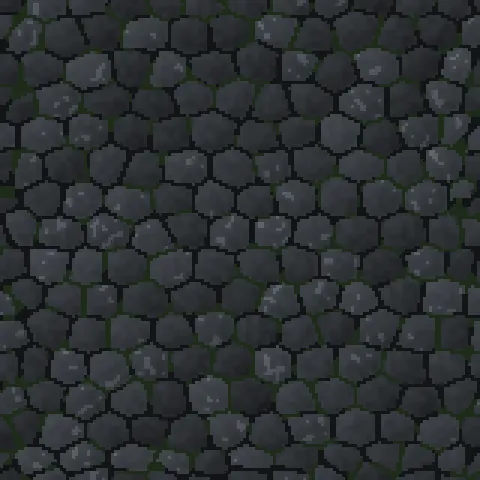
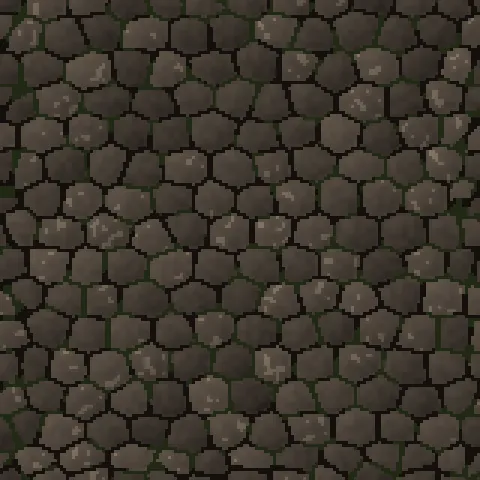
Cronograma: caixas brancas de novo sobre a calçada iluminada
As caixas voltam às cores de sempre (brancas no claro, escuras no escuro); a calçada de pedra fica
mais quente, com poças de luz das lanternas e da torre, feixe de sol e sombra das caixas nas pedras.

diff --git a/src/estilos/paginas/CronogramaTorre.css b/src/estilos/paginas/CronogramaTorre.css
@@ -175,100 +175,47 @@
 .cr-form.cr--torre .pe-form__mais, .cr-form.cr--torre .pe-data-atalho { border-radius: var(--ct-raio-ctl); }
 .cr.cr--torre .cp-conta__linha { border-radius: 12px; }
 
-/* ══ O mundo continua embaixo (Tales, 31/10/2026: "o design de baixo não tem nada a ver com o de cima") ══
-   A página inteira fica na praça da torre: o chão de pedra pintado (scripts/gerar_cena_cronograma.py chao),
-   a luz quente que desce da torre e das lanternas, o luar frio do outro lado e um feixe lento atravessando.
-   Os blocos viram vidro escuro com filete dourado, como o vidro do topo. As cores do site são redefinidas aqui
-   dentro (o mundo é noturno nos dois temas, como a cena), então todo componente herda o mesmo vidro. */
+/* ══ A calçada da praça embaixo do topo (Tales, 31/10/2026) ══
+   A página inteira fica sobre o chão de pedra pintado (scripts/gerar_cena_cronograma.py chao), iluminado como na
+   cena: poças de luz quente da torre e das lanternas, um feixe de sol lento atravessando e as caixas projetando
+   sombra macia nas pedras. As caixas de texto continuam brancas (tema claro) e com as cores de sempre, como na
+   página inicial: a luz e a cor forte ficam no chão e na arte. */
 .cr--torre {
-  --porcelana: rgba(9, 14, 16, 0.55); --fundo: var(--porcelana);
-  --superficie: rgba(15, 21, 26, 0.84); --superficie-2: rgba(255, 244, 220, 0.05);
-  --traco: rgba(232, 206, 150, 0.16); --traco-forte: rgba(232, 206, 150, 0.32);
-  --grafite: #f4ecda; --texto: #f4ecda; --ardosia: #b8b09c; --texto-2: #b8b09c;
-  --verdete: #5cc4b4; --verdete-tinta: #7fd6c8; --verdete-veu: rgba(92, 196, 180, 0.14); --sobre-destaque: #0b1315;
-  --acerto: #4fbe85; --acerto-veu: rgba(79, 190, 133, 0.14); --acerto-texto: #6fd3a0; --sobre-acerto: #0b1315;
-  --erro: #e8776c; --erro-veu: rgba(232, 119, 108, 0.14); --erro-texto: #f0958c; --sobre-erro: #0b1315;
-  --aviso: #e0b15c; --aviso-veu: rgba(224, 177, 92, 0.14); --aviso-texto: #ecc47a;
-  --ouro: #f0c46a; --ouro-veu: rgba(240, 196, 106, 0.12); --ouro-texto: #f0c46a; --foco: #ffe3a3;
-  --px-borda: rgba(232, 206, 150, 0.24); --px-sombra: rgba(0, 0, 0, 0.5);
-  --sombra: none; --sombra-media: 0 22px 44px -24px rgba(0, 0, 0, 0.9);
-  --cr-cartao-borda: 1px solid rgba(232, 206, 150, 0.2);
-  --cr-cartao-sombra: inset 0 1px 0 rgba(255, 240, 210, 0.07), 0 20px 40px -24px rgba(0, 0, 0, 0.95);
-  --ct-vidro: linear-gradient(180deg, rgba(255, 236, 200, 0.055), transparent 38%), rgba(13, 18, 24, 0.82);
-  color-scheme: dark; color: var(--texto);
-  position: relative; isolation: isolate; padding: clamp(0.6rem, 1.8vw, 1.25rem); border-radius: 26px;
+  position: relative; isolation: isolate; padding: clamp(0.6rem, 1.8vw, 1.25rem); border-radius: 26px; overflow: hidden;
   background:
-    radial-gradient(55rem 26rem at 78% 0%, rgba(255, 176, 92, 0.2), transparent 70%),
-    radial-gradient(34rem 30rem at 0% 38%, rgba(255, 168, 80, 0.1), transparent 72%),
-    radial-gradient(40rem 34rem at 100% 70%, rgba(120, 146, 255, 0.09), transparent 72%),
-    radial-gradient(30rem 26rem at 12% 96%, rgba(255, 168, 80, 0.08), transparent 72%),
-    linear-gradient(180deg, rgba(8, 12, 14, 0.15), rgba(8, 12, 14, 0.6)),
-    var(--ct-chao, none) 0 0 / 360px repeat, #0b1315;
-  image-rendering: pixelated;
-  box-shadow: inset 0 0 0 1px rgba(232, 206, 150, 0.14), inset 0 0 90px rgba(0, 0, 0, 0.55), 0 24px 50px -30px rgba(0, 0, 0, 0.7);
-  overflow: hidden;
+    radial-gradient(60rem 30rem at 80% 0%, rgba(255, 178, 88, 0.42), transparent 70%),
+    radial-gradient(36rem 28rem at 0% 34%, rgba(255, 160, 70, 0.32), transparent 70%),
+    radial-gradient(38rem 30rem at 100% 62%, rgba(255, 170, 80, 0.3), transparent 70%),
+    radial-gradient(34rem 28rem at 8% 92%, rgba(255, 150, 66, 0.28), transparent 72%),
+    radial-gradient(70rem 40rem at 50% 50%, rgba(255, 196, 120, 0.12), transparent 75%),
+    linear-gradient(180deg, rgba(40, 22, 10, 0.05), rgba(10, 8, 6, 0.42)),
+    var(--ct-chao, none) 0 0 / 360px repeat, #1a1410;
+  background-blend-mode: screen, screen, screen, screen, screen, normal, normal, normal;
+  box-shadow: inset 0 0 0 1px rgba(255, 210, 150, 0.16), inset 0 0 110px rgba(14, 8, 4, 0.6), 0 24px 50px -30px rgba(0, 0, 0, 0.6);
 }
-.cr--torre > * { image-rendering: auto; }
-/* O feixe de luz: uma faixa morna em diagonal que atravessa a praça devagar (como o sol entre as casas). */
-.cr--torre::before { content: ""; position: absolute; z-index: -1; inset: -20% -40%; pointer-events: none;
-  background: linear-gradient(105deg, transparent 42%, rgba(255, 226, 170, 0.07) 48%, rgba(255, 226, 170, 0.11) 50%, rgba(255, 226, 170, 0.07) 52%, transparent 58%);
-  animation: ct-feixe 28s ease-in-out infinite alternate; }
-@keyframes ct-feixe { from { transform: translateX(-18%); } to { transform: translateX(18%); } }
-/* Brasa de lanterna nas bordas da praça, tremulando de leve. */
-.cr--torre::after { content: ""; position: absolute; z-index: -1; inset: 0; pointer-events: none;
-  background: radial-gradient(14rem 14rem at 2% 62%, rgba(255, 170, 80, 0.16), transparent 70%), radial-gradient(14rem 14rem at 98% 30%, rgba(255, 170, 80, 0.14), transparent 70%);
+/* O feixe de sol: uma faixa morna em diagonal, com a beira mais acesa, que atravessa a calçada devagar. */
+.cr--torre::before { content: ""; position: absolute; z-index: -1; inset: -20% -40%; pointer-events: none; mix-blend-mode: screen;
+  background: linear-gradient(105deg, transparent 38%, rgba(255, 214, 150, 0.1) 45%, rgba(255, 220, 160, 0.22) 50%, rgba(255, 214, 150, 0.1) 55%, transparent 62%);
+  animation: ct-feixe 30s ease-in-out infinite alternate; }
+@keyframes ct-feixe { from { transform: translateX(-16%); } to { transform: translateX(16%); } }
+/* As lanternas tremulam: as poças de luz das bordas respiram de leve. */
+.cr--torre::after { content: ""; position: absolute; z-index: -1; inset: 0; pointer-events: none; mix-blend-mode: screen;
+  background: radial-gradient(16rem 16rem at 1% 58%, rgba(255, 150, 60, 0.32), transparent 70%), radial-gradient(16rem 16rem at 99% 28%, rgba(255, 150, 60, 0.28), transparent 70%),
+    radial-gradient(14rem 14rem at 97% 88%, rgba(255, 150, 60, 0.24), transparent 70%);
   animation: ct-brasa 4.6s ease-in-out infinite; }
-@keyframes ct-brasa { 0%, 100% { opacity: 0.85; } 35% { opacity: 1; } 60% { opacity: 0.7; } }
+@keyframes ct-brasa { 0%, 100% { opacity: 0.85; } 35% { opacity: 1; } 60% { opacity: 0.68; } 80% { opacity: 0.95; } }
 @media (prefers-reduced-motion: reduce) { .cr--torre::before, .cr--torre::after { animation: none; } }
 
-/* Vidro em todos os blocos: fundo escuro translúcido, luz de cima, filete dourado e desfoque do chão. */
+/* As caixas de sempre, pousadas na calçada: a sombra cai nas pedras (contato escuro e sombra larga e quente). */
 .cr--torre .cc--cronograma.cc--embutido .cc-janela, .cr.cr--torre .cp-hoje, .cr.cr--torre .cp-amanha, .cr.cr--torre .cp-semana,
-.cr.cr--torre .bib-caixa, .cr.cr--torre .cp-recolhido, .cr.cr--torre .cp-indo > div, .cr.cr--torre .pe-aviso, .cr--torre .cc--cronograma .cc-detalhe,
-.cr-form.cr--torre .pe-form, .cr-form.cr--torre .cartao {
-  background: var(--ct-vidro); border: 1px solid rgba(232, 206, 150, 0.22);
-  box-shadow: inset 0 0 0 4px rgba(0, 0, 0, 0.22), inset 0 0 0 5px rgba(232, 206, 150, 0.07), 0 22px 44px -26px rgba(0, 0, 0, 0.95);
-  -webkit-backdrop-filter: blur(8px) saturate(1.15); backdrop-filter: blur(8px) saturate(1.15);
+.cr.cr--torre .bib-caixa, .cr.cr--torre .cp-recolhido, .cr.cr--torre .cp-indo > div, .cr.cr--torre .pe-aviso, .cr.cr--torre .cp-conta__linha,
+.cr-form.cr--torre .pe-form, .cr-form.cr--torre .pe-montar > .cartao, .cr-form.cr--torre .pe-montar > section {
+  box-shadow: 0 1px 0 rgba(255, 255, 255, 0.5) inset, 0 2px 3px rgba(20, 10, 4, 0.35), 0 22px 40px -18px rgba(20, 10, 4, 0.75);
 }
-.cr--torre .cc--cronograma.cc--embutido .cc-topo { background: transparent; }
-.cr--torre .cc--cronograma .cc-detalhe { border-top: 3px solid var(--cor-area, var(--ouro)); }
-/* Losangos dourados nos cantos dos dois blocos principais (calendário e Hoje), como no vidro do topo. */
-.cr--torre .cc--cronograma.cc--embutido, .cr.cr--torre .cp-hoje { position: relative; }
-.cr--torre .cc--cronograma.cc--embutido::before, .cr--torre .cc--cronograma.cc--embutido::after,
-.cr.cr--torre .cp-hoje::before, .cr.cr--torre .cp-hoje::after {
-  content: ""; position: absolute; z-index: 2; width: 8px; height: 8px; background: var(--ouro); transform: rotate(45deg); box-shadow: 0 0 10px rgba(240, 196, 106, 0.7); pointer-events: none; }
-.cr--torre .cc--cronograma.cc--embutido::before, .cr.cr--torre .cp-hoje::before { top: 10px; left: 10px; }
-.cr--torre .cc--cronograma.cc--embutido::after, .cr.cr--torre .cp-hoje::after { bottom: 10px; right: 10px; }
 
-/* Rótulos de seção como no topo: caixa alta dourada, sem caixa de cor; títulos em tinta clara. */
-.cr--torre .cc--cronograma.cc--embutido .cc-topo__selo { padding: 0; background: none; color: var(--ouro); font-family: var(--fonte-texto); font-size: 0.75rem; font-weight: 800; letter-spacing: 0.12em; text-transform: uppercase; }
-.cr.cr--torre .cp-rotulo { color: var(--texto); text-shadow: 0 1px 2px rgba(0, 0, 0, 0.8); }
-.cr.cr--torre .cp-rotulo b { color: var(--texto-2); }
-.cr--torre .cc--cronograma.cc--embutido .cc-topo h2 { color: var(--texto); text-shadow: 0 2px 0 rgba(0, 0, 0, 0.5); }
-
-/* Os dias da semana: pedras de vidro; hoje aceso em ouro, como uma janela. */
-.cr--torre .cc--cronograma .ccs-dia > button, .cr--torre .cc--cronograma .cc-dia > button { background: rgba(255, 244, 220, 0.045); border-color: rgba(232, 206, 150, 0.18); color: var(--texto); }
-.cr--torre .cc--cronograma .ccs-dia--hoje > button, .cr--torre .cc--cronograma .cc-dia--hoje > button {
-  background: linear-gradient(180deg, rgba(255, 210, 130, 0.2), rgba(255, 190, 100, 0.07)); border-color: var(--ouro);
-  box-shadow: 0 0 0 1px var(--ouro), 0 0 26px -6px rgba(255, 196, 106, 0.75); }
-.cr--torre .cc--cronograma .cc-nav__botao, .cr--torre .cc--cronograma .cc-nav__hoje { background: rgba(255, 244, 220, 0.05); color: var(--texto); }
-
-/* Botões: o principal em ouro aceso (como no topo), os outros em contorno. */
-.cr.cr--torre .cp-botao { background: linear-gradient(180deg, #ffe2a0, #f0c46a 55%, #d9a446); color: #1b1208; box-shadow: inset 0 1px 0 rgba(255, 255, 255, 0.6), 0 10px 26px -10px rgba(255, 196, 106, 0.8); }
-.cr.cr--torre .cp-botao small { color: rgba(27, 18, 8, 0.8); }
-.cr.cr--torre .cp-botao:hover { filter: brightness(1.06); box-shadow: inset 0 1px 0 rgba(255, 255, 255, 0.6), 0 14px 30px -10px rgba(255, 196, 106, 0.9); }
-.cr--torre .cc--cronograma .cc-detalhe .botao--principal, .cr--torre .cc--cronograma .cc-detalhe .cp-botao { color: #1b1208; }
-
-/* Barras de progresso finas e acesas. */
-.cr.cr--torre .cp-lista__barra, .cr.cr--torre .cp-indo__medidor { background: rgba(255, 255, 255, 0.1); box-shadow: none; border-radius: 999px; overflow: hidden; }
-.cr.cr--torre .cp-indo__medidor > span, .cr.cr--torre .cp-lista__barra span { border-radius: 999px; box-shadow: 0 0 10px rgba(92, 196, 180, 0.6); }
-
-/* Números de "Como você está indo" como os da página inicial: fonte pixel grande, luz suave. */
-.cr.cr--torre .cp-indo b { font-family: var(--fonte-pixel-titulo); font-size: 2.3rem; font-weight: 400; letter-spacing: 0; color: var(--verdete); text-shadow: 0 0 18px rgba(92, 196, 180, 0.35); }
-.cr.cr--torre .cp-indo small { color: var(--ouro); font-size: 0.72rem; letter-spacing: 0.12em; text-transform: uppercase; }
-.cr.cr--torre .cp-indo__ritmo--atras b { color: #ff9a62; text-shadow: 0 0 18px rgba(255, 140, 80, 0.35); }
-
-/* A troca de cronograma e o aviso de sincronia, que ficam acima, já em tinta clara sobre o chão. */
-.cr--torre .indicador-sincronia, .cr--torre .pe-sincronia { color: var(--texto-2); }
-
-/* Campos do formulário no vidro. */
-.cr-form.cr--torre .entrada, .cr-form.cr--torre select, .cr-form.cr--torre input { background: rgba(255, 244, 220, 0.06); color: var(--texto); border-color: rgba(232, 206, 150, 0.25); }
+/* O que fica escrito direto na calçada (os títulos das seções, notas e links): tinta clara com sombra. */
+.cr.cr--torre .cp-col > div > .cp-bloco > .cp-rotulo, .cr.cr--torre .cp-col .cp-rotulo, .cr.cr--torre > .cp-rotulo { color: #fff6e6; text-shadow: 0 1px 2px rgba(0, 0, 0, 0.9), 0 0 12px rgba(0, 0, 0, 0.6); }
+.cr.cr--torre .cp-col .cp-rotulo b, .cr.cr--torre .bib-caixa__todos { color: #ffd98e; text-shadow: 0 1px 2px rgba(0, 0, 0, 0.9); }
+.cr.cr--torre .cp-indo__nota, .cr.cr--torre .cp-col > div > .cp-bloco > p:not(.cp-rotulo) { color: rgba(255, 246, 230, 0.82); text-shadow: 0 1px 2px rgba(0, 0, 0, 0.9); }
+.cr.cr--torre .cr-rodape__link { color: #ffd98e; text-shadow: 0 1px 2px rgba(0, 0, 0, 0.9); }
+.cr.cr--torre > :is(p, div):not([class*="cp-"]):not([class*="cc"]) { color: rgba(255, 246, 230, 0.85); }

diff --git a/scripts/gerar_cena_cronograma.py b/scripts/gerar_cena_cronograma.py
@@ -924,13 +924,13 @@ def chao_da_praca() -> None:
     ry = ys - cyp; ry = (ry + T / 2) % T - T / 2
     luz = np.clip(-(rx * 0.6 + ry * 0.8) / 7, -1, 1)
     n = v.ruido(911, 2, 2, T, T)
-    base = 0.17 + tom * 0.09 + luz * 0.05 * np.clip(borda / 3, 0, 1) + (n - 0.5) * 0.04
-    pedra = np.stack([base * 0.92, base * 0.98, base * 1.06], 2)
-    pedra = pedra + (np.clip(1.4 - borda, 0, 1) * (luz > 0.25))[:, :, None] * 0.07  # aresta clara
+    base = 0.2 + tom * 0.1 + luz * 0.06 * np.clip(borda / 3, 0, 1) + (n - 0.5) * 0.04
+    pedra = np.stack([base * 1.1, base * 0.97, base * 0.84], 2)  # pedra morna, de arenito gasto
+    pedra = pedra + (np.clip(1.4 - borda, 0, 1) * (luz > 0.25))[:, :, None] * np.array([0.12, 0.085, 0.04], np.float32)  # aresta acesa, âmbar
     rejunte = borda < 1.25
     musgo = (v.ruido(913, 5, 5, T, T) > 0.58) & rejunte
-    cor = np.where(rejunte[:, :, None], np.array([0.07, 0.08, 0.085], np.float32), pedra)
-    cor = np.where(musgo[:, :, None], np.array([0.12, 0.17, 0.1], np.float32), cor)
+    cor = np.where(rejunte[:, :, None], np.array([0.075, 0.06, 0.045], np.float32), pedra)
+    cor = np.where(musgo[:, :, None], np.array([0.13, 0.16, 0.08], np.float32), cor)
     lasca = (n > 0.82) & (borda > 2.5) & (tom > 0.6)
     cor = np.where(lasca[:, :, None], cor * 1.35, cor)
     img = Image.fromarray((np.clip(cor, 0, 1) * 255).astype(np.uint8)).resize((T * ESC, T * ESC), Image.NEAREST)

diff --git a/docs/cronograma/PLANO.md b/docs/cronograma/PLANO.md
@@ -187,9 +187,9 @@ Entrega da revisão 50–53: [PR #327](https://github.com/talesrobertosn/ortoque
     Arte: `<python com numpy e pillow> scripts/gerar_cena_cronograma.py [manha|tarde|noite]` gera
     `public/pixel/cronograma/torre-tempo-<hora>(-960).webp` e `torre-tempo-sino-<hora>.png`. O relógio não tem letras nem
     algarismos e não marca a prova: os dias que faltam são o número do HTML.
-55. [x] O mundo continua embaixo (Tales, 31/10/2026: "o design de baixo não tem nada a ver com o de cima"): a página
-    inteira do cronograma de ortopedia (e o formulário) fica sobre o chão de pedra da praça
-    (`scripts/gerar_cena_cronograma.py chao` → `torre-tempo-chao.webp`, ladrilho sem emenda), com a luz quente da torre e
-    das lanternas, o luar do outro lado e um feixe lento atravessando (desligado com "menos animação"). Os blocos são
-    vidro escuro com filete dourado; o calendário e o Hoje ganharam os losangos do vidro do topo; o botão do dia é ouro
-    aceso. As cores do site são redefinidas só dentro de `.cr--torre` (mundo noturno nos dois temas, como a cena).
+55. [x] A calçada da praça embaixo do topo (Tales, 31/10/2026): a página inteira do cronograma de ortopedia (e o
+    formulário) fica sobre o chão de pedra pintado (`scripts/gerar_cena_cronograma.py chao` → `torre-tempo-chao.webp`,
+    ladrilho sem emenda, pedra morna com o chanfro aceso), com poças de luz quente da torre e das lanternas, um feixe de
+    sol lento e as caixas projetando sombra nas pedras (animações desligadas com "menos animação"). As caixas de texto
+    continuam brancas no tema claro (e escuras no escuro), como na página inicial; só os títulos que ficam direto na
+    calçada ganharam tinta clara com sombra. Tudo dentro de `.cr--torre`.
